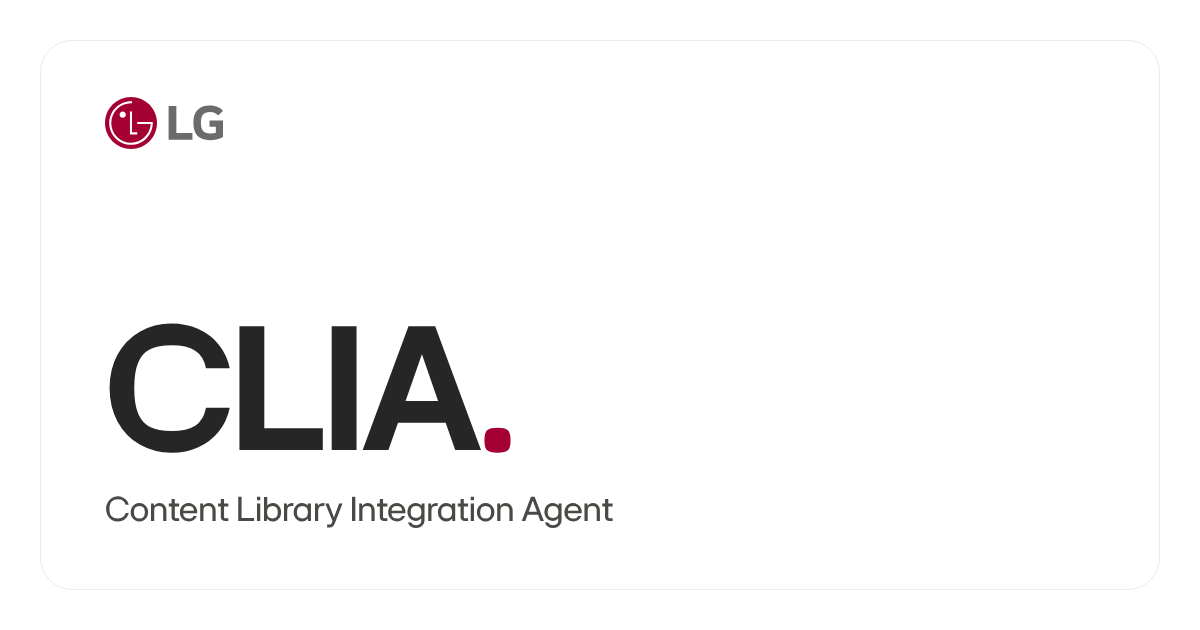
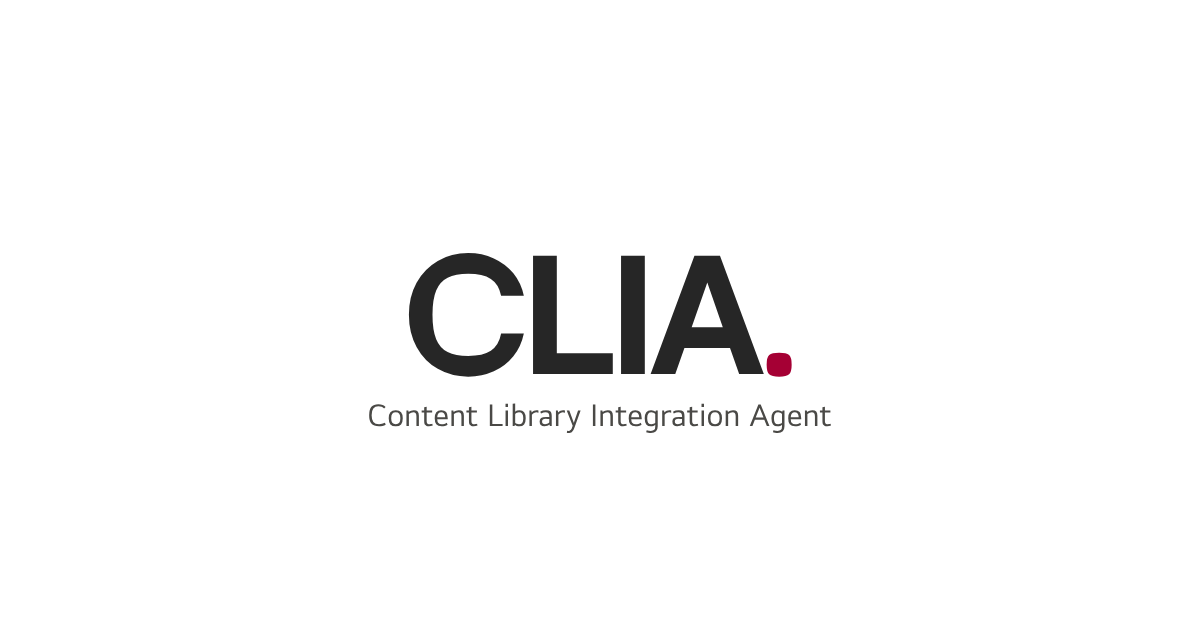
링크 미리보기 이미지: 가운데 정렬 "CLIA." (Teams 썸네일 잘림 수정)
Teams 는 1200×630 미리보기 이미지의 가운데만 잘라 썸네일로 보여 줘서, 왼쪽에 있던 로고와 "CLIA." 가 잘렸다.
- shared/assets/clia-og.png: 흰 바탕, "CLIA." 를 이미지 정중앙(600, 315)에, 부제를 그 아래 가운데. 로고·테두리 없음
  Teams(가운데 약 4:3)·정사각형·가로 전체 어느 쪽으로 잘려도 글자가 남는다
- og:image 주소에 ?v=2 — Teams·카톡 등이 예전 이미지를 계속 보여 주지 않게 (index.html, clia/index.html, guide/index.html)

Claude-Session: https://claude.ai/code/session_01Qc8KZD7VBCpYEDTcZTUCTW

Changed region(s): [[0.0925, 0.3921, 0.7092, 0.7238], [0.0925, 0.7841, 0.5242, 0.8444], [0.0617, 0.1508, 0.185, 0.2413]]

diff --git a/guide/index.html b/guide/index.html
@@ -13,7 +13,7 @@
 <meta property="og:title" content="콘텐츠 이미지 가이드 — CLIA">
 <meta property="og:description" content="Amazon · Shopee · Lazada · Instagram · eBay 모듈별 이미지 사이즈 · 레이아웃 구조 · 제작 가이드">
 <meta property="og:url" content="https://clia.lge-d2c.com/guide/">
-<meta property="og:image" content="https://clia.lge-d2c.com/shared/assets/clia-og.png">
+<meta property="og:image" content="https://clia.lge-d2c.com/shared/assets/clia-og.png?v=2">
 <meta name="twitter:card" content="summary_large_image">
 <link rel="preload" as="font" type="font/woff2" href="../fonts/LGEIHeadlineTTF-Bold.woff2" crossorigin>
 <link rel="preload" as="font" type="font/woff2" href="../fonts/LGEITextTTF-Regular.woff2" crossorigin>

diff --git a/clia/index.html b/clia/index.html
@@ -14,7 +14,7 @@
 <meta property="og:title" content="CLIA Content Hub">
 <meta property="og:description" content="Content Library Integration Agent — LG.com product pages to eBay, Amazon A+, Shopee and Lazada content.">
 <meta property="og:url" content="https://clia.lge-d2c.com/">
-<meta property="og:image" content="https://clia.lge-d2c.com/shared/assets/clia-og.png">
+<meta property="og:image" content="https://clia.lge-d2c.com/shared/assets/clia-og.png?v=2">
 <meta property="og:image:width" content="1200">
 <meta property="og:image:height" content="630">
 <meta name="twitter:card" content="summary_large_image">

diff --git a/index.html b/index.html
@@ -10,6 +10,6 @@
 <meta property="og:title" content="CLIA Content Hub">
 <meta property="og:description" content="Content Library Integration Agent — LG.com product pages to eBay, Amazon A+, Shopee and Lazada content.">
 <meta property="og:url" content="https://clia.lge-d2c.com/">
-<meta property="og:image" content="https://clia.lge-d2c.com/shared/assets/clia-og.png">
+<meta property="og:image" content="https://clia.lge-d2c.com/shared/assets/clia-og.png?v=2">
 <meta name="twitter:card" content="summary_large_image">
 <a href="clia/">CLIA Content Hub →</a>
